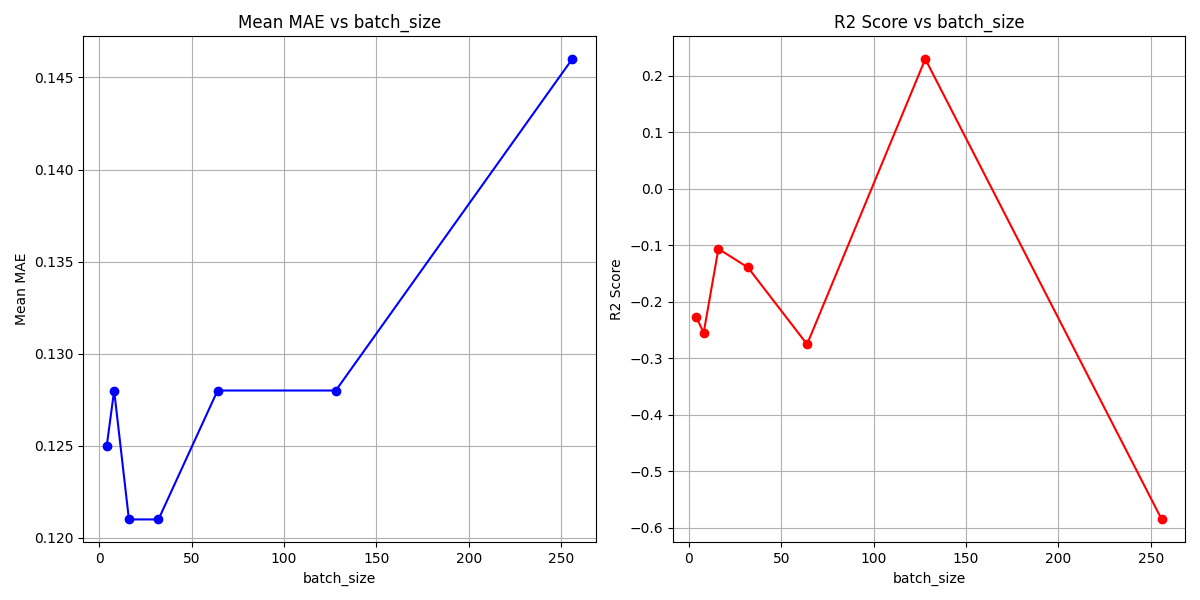
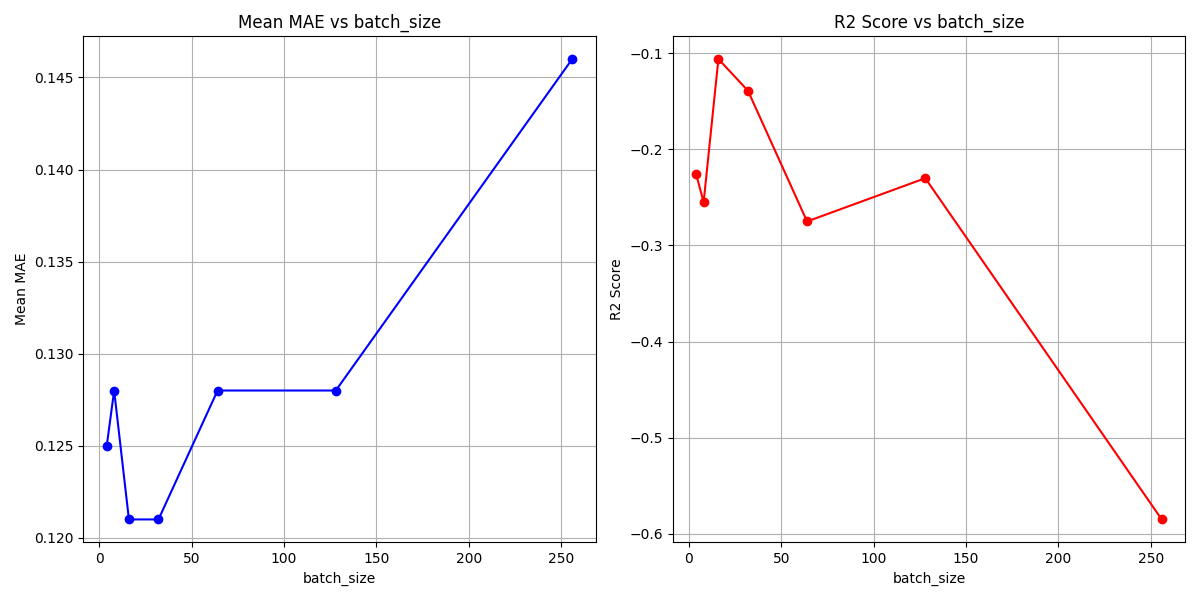
250, 5 complete

diff --git a/plot.py b/plot.py
@@ -3,7 +3,7 @@ import matplotlib.pyplot as plt
 # Data for the four cases
 depth = [4, 8, 16, 32, 64, 128, 256]
 mean_mae_values = [ 0.125, 0.128, 0.121, 0.121, 0.128, 0.128, 0.146 ]
-r2_scores = [ -0.226, -0.255, -0.106, -0.139, -0.275, 0.230, -0.585]
+r2_scores = [ -0.226, -0.255, -0.106, -0.139, -0.275, -0.230, -0.585]
 
 # Plotting Mean MAE values
 plt.figure(figsize=(12, 6))
